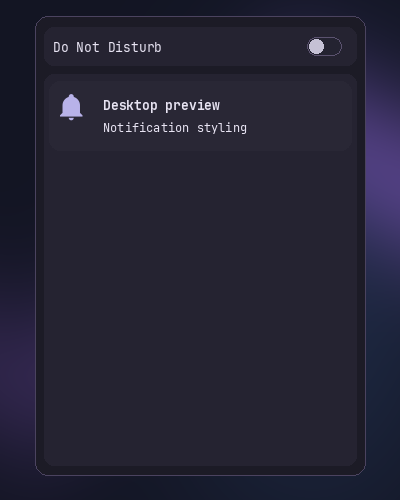
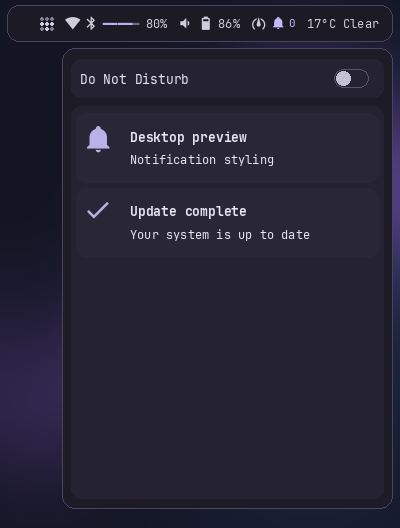
Refresh desktop gallery for the new controls

diff --git a/README.md b/README.md
@@ -4,10 +4,10 @@ My Arch Linux and Hyprland desktop with a floating lavender Waybar, custom
 GTK menus for Wi-Fi, VPNs, Bluetooth, and sound, plus a matching notification
 center, volume and brightness overlay, and lock screen.
 
-![Desktop preview with the floating Waybar, Kitty terminal, and Vicinae launcher](screenshots/desktop-preview.png)
+![Desktop preview with Waybar Bluetooth battery and unread notification indicators, Kitty, and Vicinae](screenshots/desktop-preview.png)
 
 *The images on this page are illustrations rendered from the configuration
-with sample data. They show the original layout and use an illustrative background.*
+with sample data. The desktop preview uses an illustrative background.*
 
 ## Motivation
 
@@ -102,6 +102,8 @@ Waybar palette, clears itself after about 1.4 seconds, and lets pointer input
 pass through. Volume up also unmutes the output. Brightness feedback requires
 a backlight device exposed by the system.
 
+![Two overlay previews showing 42 percent volume and 68 percent brightness](screenshots/osd-preview.png)
+
 ## Waybar
 
 The [bar layout](config/waybar/config.jsonc) uses one 36 px floating panel per
@@ -143,6 +145,10 @@ colors, and compact settings buttons.
 | --- | --- |
 | ![Wi-Fi menu preview with a radio switch, nearby networks, and VPN controls](screenshots/wifi-preview.png) | ![Sound menu preview with output and input device lists and volume sliders](screenshots/audio-preview.png) |
 
+| Expanded Wi-Fi details | Bluetooth |
+| --- | --- |
+| ![Expanded Wi-Fi panel with link rates and addresses](screenshots/wifi-details-preview.png) | ![Bluetooth menu showing a scan, paired devices, and headphones at 80 percent battery](screenshots/bluetooth-preview.png) |
+
 - **Wi-Fi** shows nearby networks with signal strength and security status,
   highlights the connected network, and exposes a radio switch and rescan
   button. Saved networks can reconnect directly. Supported secured networks
@@ -181,7 +187,7 @@ bell to toggle Do Not Disturb. The bell’s badge counts unread notifications.
 Opening the center clears the badge while preserving notification history.
 A SwayNC receive hook and a D-Bus listener keep the count in sync.
 
-![SwayNC preview showing Do Not Disturb and a sample notification](screenshots/notifications-preview.png)
+![SwayNC preview with the unread count cleared while notifications remain in history](screenshots/notifications-preview.png)
 
 ## Hyprlock and Hypridle
 

diff --git a/CHANGELOG.md b/CHANGELOG.md
@@ -27,3 +27,5 @@
   gave the Wi-Fi and Bluetooth panels fixed heights.
 - Made the volume-up key unmute the default output before raising its level.
 - Added BlueZ, `iw`, `curl`, and GUdev to the installer’s package list.
+- Refreshed the README gallery for the new Waybar and SwayNC states, and
+  added previews of Bluetooth, Wi-Fi details, and the media overlay.
